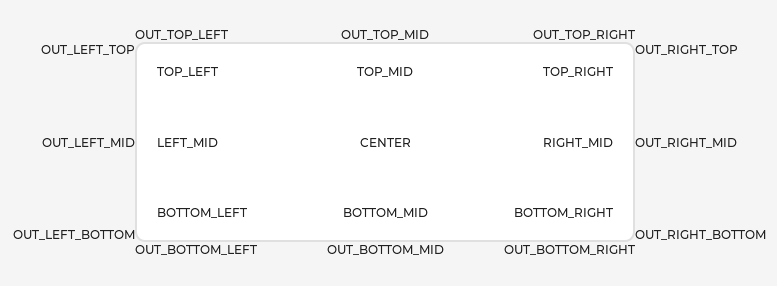
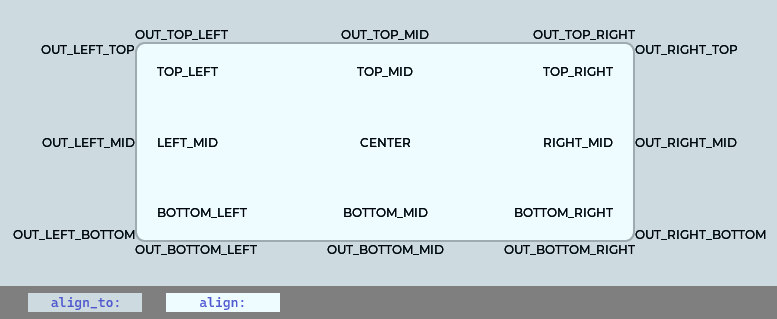
align_to

diff --git a/components/lvgl.rst b/components/lvgl.rst
@@ -242,7 +242,12 @@ The outline is drawn outside the bounding box.
 
 You can adjust the appearance of widgets by changing the foreground, background and/or border color, font of each object. Some widgets allow for more complex styling, effectively changing the appearance of their parts. 
 
-- **align** (*Optional*, enum): Alignment of the of the widget `relative to the parent <https://docs.lvgl.io/8.3/widgets/obj.html?#alignment>`__. One of:
+- **align** (*Optional*, enum): Alignment of the of the widget relative to the parent. A child widget is clipped to its parent boundaries. One of the values *not* starting with ``OUT_`` (see picture below).
+- **align_to** (*Optional*, enum): Alignment of the of the widget relative to another widget on the same level:
+    - **id** (**Required**): The ID of a widget *to* which you want to align.
+    - **align** (*Required*, enum): Desired alignment (one of the values starting with ``OUT_``).
+    - **x** (*Optional*, int16 or percentage): Horizontal offset position.
+    - **y** (*Optional*, int16 or percentage): Vertical offset position.
 
 .. figure:: /components/images/lvgl_align.png
     :align: center
